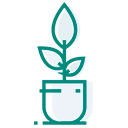
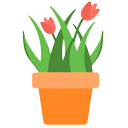
rev17

diff --git a/viveroSH/index.html b/viveroSH/index.html
@@ -86,7 +86,8 @@
 				<article id="main">
 
 					<header class="special container">
-						<span class="icon fa-users"></span>
+<!--						<span class="icon fa-users"></span> -->
+						<img class="icon" src="images/whoweare.png" style="height: 7em; width: 7em; position: relative; top: -8.5em" alt="" />
 						<h2>Quienes Somos</h2>
 						<!--<h2>As this is my <strong>twentieth</strong> freebie for HTML5 UP
 						<br />
@@ -141,7 +142,7 @@
 
 									<section>
 									<!--	<span class="icon featured fa-check"></span> -->
-										<h1 id="logo"><img src="images/ico01a.png" alt="" /></h1>
+										<h1 id="logo"><img src="images/ico01.png" alt="" /></h1>
 										<header>
 											<h3>Paisajismo y diseño</h3>
 										</header>
@@ -353,7 +354,8 @@
 				<article id="clients">
 
 					<header class="special container">
-						<span class="icon fa-users"></span>
+<!--						<span class="icon fa-users"></span> -->
+						<img class="icon" src="images/clients.png" style="height: 7em; width: 7em; position: relative; top: -8.5em" alt="" />
 						<h2>Nuestros Clientes</h2>
 						<!--<h2>As this is my <strong>twentieth</strong> freebie for HTML5 UP
 						<br />
